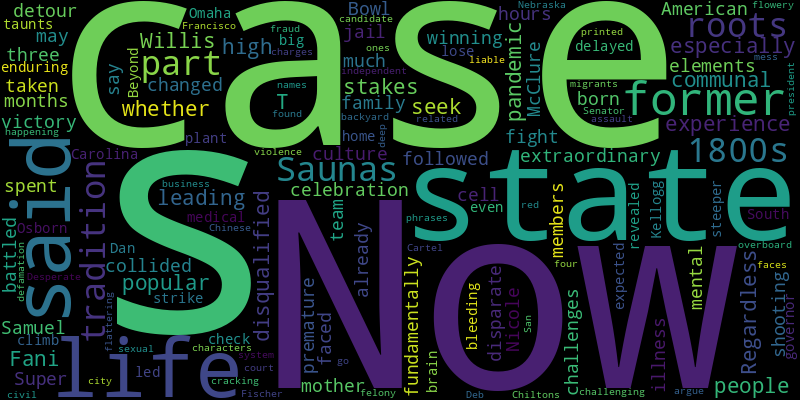
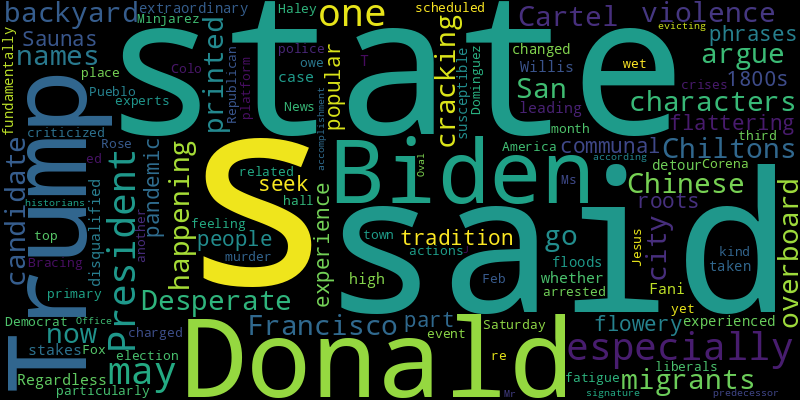
chore(bot): 👻 auto commit

diff --git a/README.md b/README.md
@@ -3,40 +3,40 @@ Auto RSS New York Times and Generate Word Cloud
 
 ## New York Times Global News
 * An exhibition in the Israeli-occupied West Bank features works evoking Palestinian life and protest. But the show is as much about the art that cannot be displayed, lost forever in the war.
-* Toward the end of Russia’s long assault, hundreds of civilians still remained in Avdiivka. Those who escaped in the last weeks spoke of relentless devastation.
-* Although Aleksei A. Navalny’s cause of death is not known, his staff often worried that brutal conditions imposed on him in ever crueler prisons might lead to his death.
+* The death of Aleksei A. Navalny in a Russian prison has been a blow to an opposition movement in which he was the figurehead. But it has also raised hopes of a united front against President Vladimir V. Putin.
+* At least 366 people were detained over the weekend, leading to concern that the arrests could signal greater government repression ahead of Russia’s elections in March.
+* Officials in Budapest declined to meet with a bipartisan group of American lawmakers who favor expanding the military alliance.
+* Despite U.S. pressure, the idea of a Palestinian state seems further away than ever, as Israel’s Jews move rightward and its Palestinians fear a backlash.
 * Thaksin Shinawatra, a divisive and compelling figure even in his years of exile, was once hailed as a champion of the common people. His recent moves have disillusioned followers.
 * The demonstrations took a pause after the Oct. 7 attacks, but the anger at the Israeli leadership never went away.
 * At least 400 people have been detained across Russia since Aleksei Navalny’s death, a rights group reported. Those who came to lay flowers found solace in the company of others.
-* Thieves in southern India kept the cash, the gold and most of the silver, but returned to the scene of the crime with one item, and an apology note.
 * An activist who thrived on agitation, he feared irrelevancy in exile. Winning new respect as he continued to lambast the Kremlin from behind bars cost him his life.
 * President Volodymyr Zelensky pushed back against skepticism of a Ukraine victory, calling on world leaders not to ask when the war would end, but why Russia was still able to wage it.
-* Outmanned and outgunned, Ukrainian ground forces are in perhaps their most precarious position since the opening months of the war.
 
 ![Global](./global.png)
 ## New York Times United States News
-* Saunas in the state, part of a tradition with roots in the 1800s, have been especially popular since the pandemic as more people seek a communal experience.
-* Regardless of whether Fani T. Willis is disqualified from leading the high-stakes case, the extraordinary detour it has taken may have changed it fundamentally.
-* When the Super Bowl was followed by a shooting at the winning team’s victory celebration, disparate elements of American culture collided.
-* Samuel, born three months premature, had already faced challenges for much of his life as his mother battled mental illness, family members say. Now he is in a fight for his life.
-* Nicole McClure said she spent hours in a jail cell, enduring taunts, until a delayed medical check revealed that her brain was bleeding.
-* The former South Carolina governor is expected to lose big in her home state. Beyond that, it’s an even steeper climb.
-* Dan Osborn led a strike in 2021 against the Kellogg’s plant in Omaha. Now he is challenging Senator Deb Fischer as an independent in deep-red Nebraska.
 * Desperate migrants. Cartel violence. It’s all happening in the Chiltons’ backyard.
 * San Francisco has printed candidate names in Chinese characters since 1999. But now the city is cracking down on ones that some argue go overboard with flattering, flowery phrases.
-* “Our court system is a mess,” said the former president, who faces felony charges in four other cases and has been found liable in civil cases related to business fraud, sexual assault and defamation.
+* Saunas in the state, part of a tradition with roots in the 1800s, have been especially popular since the pandemic as more people seek a communal experience.
+* Regardless of whether Fani T. Willis is disqualified from leading the high-stakes case, the extraordinary detour it has taken may have changed it fundamentally.
+* The state is especially susceptible to floods because it has experienced a particularly wet month, experts said.
+* The state’s Republican primary is scheduled for Saturday, Feb. 24.
+* Bracing for yet another election against Donald Trump, America’s liberals are feeling the fatigue. “We’re kind of, like, crises-ed out,” one Democrat said.
+* The police in Pueblo, Colo., said that they had arrested Corena Rose Minjarez, 36, and Jesus Dominguez, 35, and charged them with murder.
+* During a Fox News town hall event, Ms. Haley criticized President Biden and Donald Trump for their actions related to the platform.
+* President Biden may owe his place in the top third to his predecessor: Mr. Biden’s signature accomplishment, according to the historians, was evicting Donald J. Trump from the Oval Office.
 
 ![US](./usnews.png)
 ## New York Times Asia News
+* Delays in finishing new factories are emerging, just as the Biden administration begins handing out money to stoke domestic production.
+* The bloodshed in Enga Province, which has been plagued by violence between tribal groups, left at least 26 people dead, according to the authorities.
+* Also, Russians mourn Aleksei Navalny.
+* The surprising confession appeared to lend weight to accusations by Imran Khan’s party that the military had tampered with the vote count in dozens of races.
 * Thaksin Shinawatra, a divisive and compelling figure even in his years of exile, was once hailed as a champion of the common people. His recent moves have disillusioned followers.
 * Volkswagen and BASF, two German giants, are reassessing their activities in the region, where the Chinese government has cracked down on Muslim minorities.
 * Although Aleksei A. Navalny’s cause of death is not known, his staff often worried that brutal conditions imposed on him in ever crueler prisons might lead to his death.
 * Thieves in southern India kept the cash, the gold and most of the silver, but returned to the scene of the crime with one item, and an apology note.
 * A stage adaptation of the film featured an all-Western cast, was performed in Chinese and raised questions about translation, both linguistic and cultural.
 * South Korea pledged to protect its online platforms from marketplace giants, but lobbyists are crying foul play.
-* Also, Israel storms a hospital in Gaza and readers reflect on the “right to disconnect.”
-* Prabowo Subianto has had many identities over the years: a commander under sanctions for rights abuses, a violent nationalist and, now, the candidate of continuity.
-* Judges found that government bonds used for anonymous political donations were unconstitutional.
-* More than a year after revelry turned to disaster, three people have been found guilty for actions connected to the case. The bereaved hope this is only the start.
 
 ![Asian](./asian.png)
